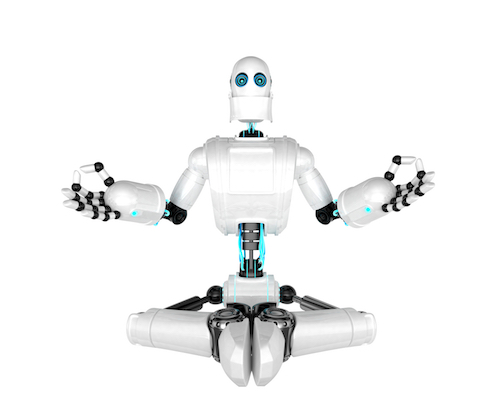
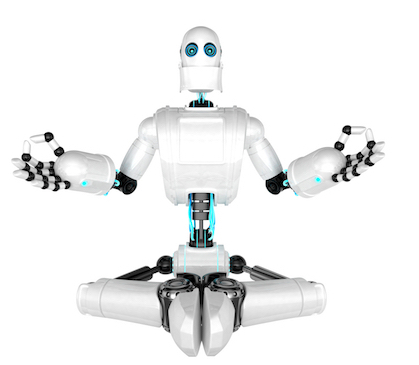
more css

Changed region(s): [[0.031, 0.0603, 0.9308, 0.9945]]

diff --git a/src/styles/screen.scss b/src/styles/screen.scss
@@ -25,7 +25,6 @@ h2 {
 
 main {
   flex: 1;
-  margin: 30px;
 
   h2 {
     font-size: 2em;
@@ -43,14 +42,19 @@ main {
 }
 
 .learn {
-  font-size: 2em;
-  width: 100%;
+  font-size: 1.5em;
+  width: 80%;
+  margin: 0 auto;
   text-align: center;
   font-weight: lighter;
 }
 
 .Home {
   text-align: center;
+
+  img {
+    max-height: 400px;
+  }
 
   .random {
     @include reset-list;
@@ -89,7 +93,7 @@ header {
   display: flex;
   justify-content: space-between;
   align-items: center;
-  margin: 10px 0;
+  margin: 30px -5px;
   border-right: 1px solid rgba(139, 8, 142, 0.85);
   border-top: 1px solid rgba(139, 8, 142, 0.85);
 
@@ -117,6 +121,7 @@ nav {
   li {
     border: 1px solid rgba(139, 8, 142, 0.85);
     padding: 3px 5px;
+    box-shadow: 1px 1px rgba(139, 8, 142, 0.85);
   }
 }
 
@@ -125,12 +130,12 @@ footer {
   flex-direction: column;
   width: 80%;
   margin: 15px 0;
-  font-size: 1.3em;
+  font-size: 1.1em;
   border-left: 2px solid rgba(139, 8, 142, 0.85);
   border-bottom: 2px solid rgba(139, 8, 142, 0.85);
 
   h4 {
-    margin-left: 30px;
+    margin: 10px 30px;
     font-weight: lighter;
     font-style: italic;
   }
@@ -139,9 +144,9 @@ footer {
     @include reset-list;
 
     text-decoration: none;
-    margin: 5px 30px 30px 30px;
-    width: 125px;
-    padding: 2px 10px 10px 10px;
+    margin: 5px 30px 30px;
+    width: 110px;
+    padding: 10px;
     box-shadow: 1px 1px 4px rgb(77, 131, 158);
     border: 1px solid rgb(77, 131, 158);
     border-radius: 2px;

diff --git a/src/components/Home.js b/src/components/Home.js
@@ -7,7 +7,7 @@ import robot from '../images/robot.jpg'
 const Home = ({ entries }) => (
   <div className='Home'>
     <img src={robot} alt='robot meditating' />
-    <h2 className='learn'>Learn More about Terms Like:</h2>
+    <h2 className='learn'>Learn More About Terms Like:</h2>
     <ul className='random'>
       <EntryList entries={_.sampleSize(entries, 6)} />
     </ul>
